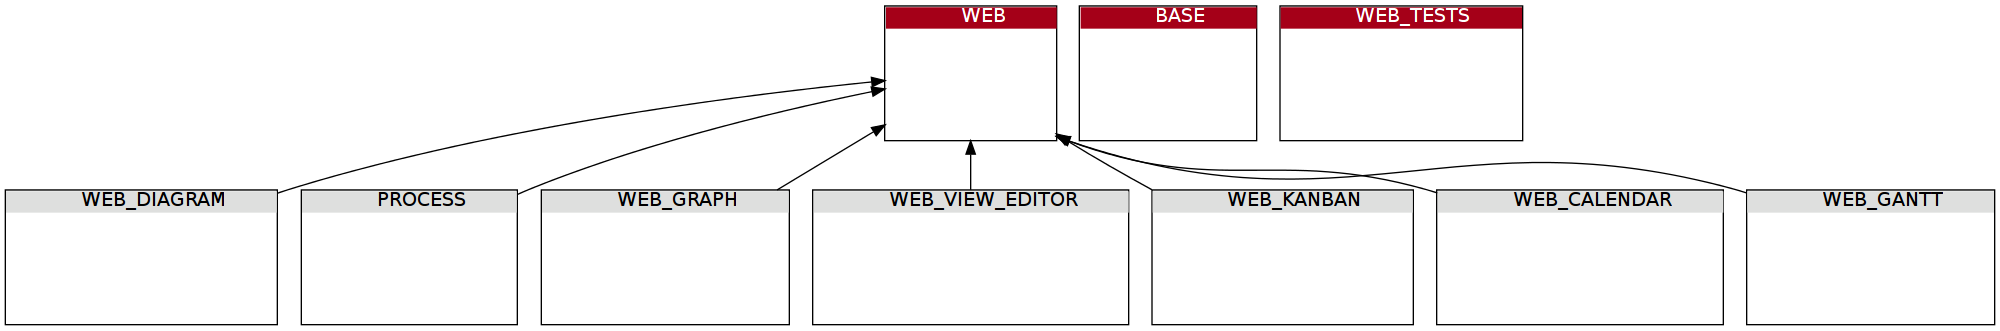
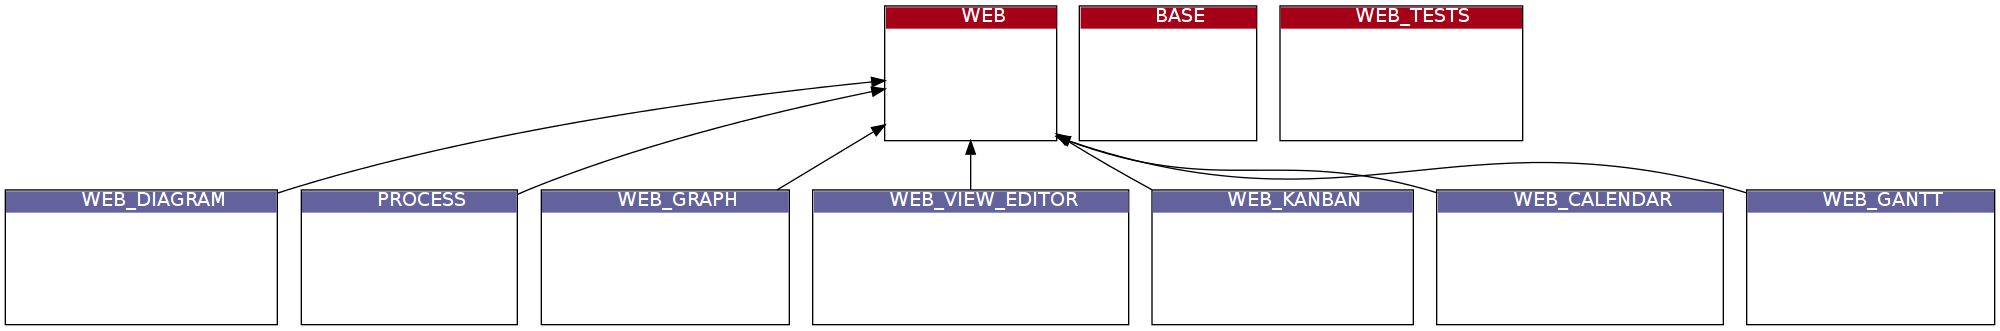
'inspect' service: 'dependencies()' method improved (able to display uninstalled modules) + Documentation updated

Changed region(s): [[0.0, 0.574, 1.0, 0.6647]]

diff --git a/oerplib/service/inspect/dependencies.py b/oerplib/service/inspect/dependencies.py
@@ -28,10 +28,10 @@ from oerplib.tools import v
 
 TPL_MODULE = """<
 <table cellborder="0" cellpadding="0" cellspacing="0"
-       border="1" bgcolor="{bgcolor_module}" height="100%%">
+       border="1" bgcolor="{module_bgcolor}" height="100%%">
     <tr>
-        <td border="0" bgcolor="{bgcolor_module_title}" align="center">
-            <font color="{color_module_title}">{name}</font>
+        <td border="0" bgcolor="{module_bgcolor_title}" align="center">
+            <font color="{module_color_title}">{name}</font>
         </td>
     </tr>
     {models}
@@ -46,7 +46,7 @@ TPL_MODULE_MODEL = """
 
 TPL_MODULE_COMMENT = """
 <tr>
-    <td align="center" border="0"><font color="{color_comment}">{comment}</font></td>
+    <td align="center" border="0"><font color="{module_color_comment}">{comment}</font></td>
 </tr>
 """
 
@@ -68,17 +68,22 @@ class Dependencies(object):
         self._restrict = restrict
         # Configuration options
         self._config = {
-            'bgcolor_module_title': '#DEDFDE',
-            'color_module_title': 'black',
-            'bgcolor_module_title_root': '#A50018',
-            'color_module_title_root': 'white',
-            'bgcolor_module_title_highlight': '#1F931F',
-            'color_module_title_highlight': 'white',
-            'bgcolor_module': 'white',
-            'color_model': 'black',
-            'color_comment': 'grey',
-            'show_normal_models': True,
-            'show_transient_models': False,
+            'module_uninst_bgcolor_title': '#DEDFDE',
+            'module_uninst_color_title': 'black',
+            'module_inst_bgcolor_title': '#64629C',
+            'module_inst_color_title': 'white',
+            'module_root_bgcolor_title': '#A50018',
+            'module_root_color_title': 'white',
+            'module_highlight_bgcolor_title': '#1F931F',
+            'module_highlight_color_title': 'white',
+            'module_bgcolor': 'white',
+            'module_color_comment': 'grey',
+            'model_color_normal': 'black',
+            'model_color_transient': '#7D7D7D',
+            'show_module_inst': True,
+            'show_module_uninst': False,
+            'show_model_normal': True,
+            'show_model_transient': False,
         }
         self._config.update(config or {})
         # List of data models
@@ -126,16 +131,17 @@ class Dependencies(object):
                 args.append(('model', '=ilike', model))
             ids = model_obj.search(args)
             for data in model_obj.read(ids, ['model', 'modules', 'osv_memory']):
-                if not self._config['show_transient_models'] \
+                if not self._config['show_model_transient'] \
                         and data['osv_memory']:
                     continue
-                if not self._config['show_normal_models'] \
+                if not self._config['show_model_normal'] \
                         and not data['osv_memory']:
                     continue
                 res[data['model']] = {
                     'model': data['model'],
                     'modules': data['modules']
                     and data['modules'].split(', ') or [],
+                    'transient': data['osv_memory'],
                 }
         return res
 
@@ -150,13 +156,27 @@ class Dependencies(object):
         modules_full = {}
         # Fetch all the modules installed on the OpenERP server
         module_obj = self._oerp.get('ir.module.module')
-        module_ids = module_obj.search([('state', '=', 'installed')])
-        for data in module_obj.read(module_ids, ['name']):
+        states_inst = ['installed', 'to upgrade', 'to remove']
+        states_uninst = ['uninstalled', 'uninstallable', 'to install']
+        states = []
+        if self._config['show_module_inst'] \
+                and not self._config['show_module_uninst']:
+                    states = states_inst[:]
+        elif not self._config['show_module_inst'] \
+                and self._config['show_module_uninst']:
+                    states = states_uninst[:]
+        elif self._config['show_module_inst'] \
+                and self._config['show_module_uninst']:
+            states = []
+        args = states and [('state', 'in', states)] or []
+        module_ids = module_obj.search(args)
+        for data in module_obj.read(module_ids, ['name', 'state']):
             if data['name'] not in modules:
                 modules_full[data['name']] = {
                     'models': [],
                     'depends': [],
                     'keep': keep,
+                    'installed': data['state'] in states_inst
                 }
         # Dispatch data models in their related modules
         for model, data in models.iteritems():
@@ -173,6 +193,7 @@ class Dependencies(object):
                             'models': [],
                             'depends': [],
                             'keep': keep,
+                            'installed': modules_full[module]['installed'],
                         }
                     if model not in modules[module]['models']:
                         modules[module]['models'].append(model)
@@ -301,31 +322,39 @@ class Dependencies(object):
                        for depend in data['depends'])
             # Model lines
             tpl_models = []
-            for model in data['models']:
-                tpl_models.append(TPL_MODULE_MODEL.format(
-                    color_model=self._config['color_model'], model=model))
+            for model in sorted(data['models']):
+                color_model = self._config['model_color_normal']
+                if self._models[model]['transient']:
+                    color_model = self._config['model_color_transient']
+                tpl_models.append(
+                    TPL_MODULE_MODEL.format(
+                        color_model=color_model, model=model))
             # Module comment
             tpl_comment = None
             if data.get('comment'):
                 tpl_comment = "<tr><td> </td></tr>"
                 tpl_comment += TPL_MODULE_COMMENT.format(
-                    color_comment=self._config['color_comment'],
+                    module_color_comment=self._config['module_color_comment'],
                     comment=data['comment'])
             # Module
-            color_module_title = self._config['color_module_title']
-            bgcolor_module_title = self._config['bgcolor_module_title']
+            module_color_title = self._config['module_inst_color_title']
+            module_bgcolor_title = self._config['module_inst_bgcolor_title']
             if root:
-                color_module_title = self._config['color_module_title_root']
-                bgcolor_module_title = self._config['bgcolor_module_title_root']
+                module_color_title = self._config['module_root_color_title']
+                module_bgcolor_title = self._config['module_root_bgcolor_title']
             if not root and tpl_models:
-                color_module_title = \
-                    self._config['color_module_title_highlight']
-                bgcolor_module_title = \
-                    self._config['bgcolor_module_title_highlight']
+                module_color_title = \
+                    self._config['module_highlight_color_title']
+                module_bgcolor_title = \
+                    self._config['module_highlight_bgcolor_title']
+            if not data.get('installed'):
+                module_color_title = self._config['module_uninst_color_title']
+                module_bgcolor_title = \
+                    self._config['module_uninst_bgcolor_title']
             tpl = TPL_MODULE.format(
-                color_module_title=color_module_title,
-                bgcolor_module_title=bgcolor_module_title,
-                bgcolor_module=self._config['bgcolor_module'],
+                module_color_title=module_color_title,
+                module_bgcolor_title=module_bgcolor_title,
+                module_bgcolor=self._config['module_bgcolor'],
                 name=module.upper(),
                 models=''.join(tpl_models),
                 comment=tpl_comment or '')

diff --git a/oerplib/service/inspect/__init__.py b/oerplib/service/inspect/__init__.py
@@ -141,23 +141,28 @@ class Inspect(object):
         `config` is a dictionary of options to override some attributes of
         the graph. Here the list of options and their default values:
 
-            - ``bgcolor_module_title: #DEDFDE``,
-            - ``color_module_title: black``,
-            - ``bgcolor_module_title_root: #A50018``,
-            - ``color_module_title_root: white``,
-            - ``bgcolor_module_title_highlight: #1F931F``,
-            - ``color_module_title_highlight: white``,
-            - ``bgcolor_module: white``,
-            - ``color_model: black``,
-            - ``color_comment: grey``,
-            - ``show_normal_models: True``,
-            - ``show_transient_models: False``,
+            - ``module_uninst_bgcolor_title: #DEDFDE``,
+            - ``module_uninst_color_title: black``,
+            - ``module_inst_bgcolor_title: #64629C``,
+            - ``module_inst_color_title: white``,
+            - ``module_root_bgcolor_title: #A50018``,
+            - ``module_root_color_title: white``,
+            - ``module_highlight_bgcolor_title: #1F931F``,
+            - ``module_highlight_color_title: white``,
+            - ``module_bgcolor: white``,
+            - ``module_color_comment: grey``,
+            - ``model_color_normal: black``,
+            - ``model_color_transient: #7D7D7D``,
+            - ``show_module_inst: True``,
+            - ``show_module_uninst: False``,
+            - ``show_model_normal: True``,
+            - ``show_model_transient: False``,
 
         >>> oerp.inspect.dependencies(
         ...     ['base'],
         ...     ['res.partner*'],
         ...     ['res.partner.title', 'res.partner.bank'],
-        ...     config={'show_transient_models': True},  # Show TransientModel/osv_memory models
+        ...     config={'show_model_transient': True},  # Show TransientModel/osv_memory models
         ... ).write('dependencies_res_partner_transient.png', format='png')
 
         .. note::

diff --git a/doc/source/tutorials.rst b/doc/source/tutorials.rst
@@ -525,26 +525,41 @@ display dependencies related to the `account` module::
     :height: 250px
 
 This time the `root` module is ``account``. Modules may also contain data
-models. To highlight some of them among the modules, set the `models` and/or
+models. To highlight some of them among the modules, set the `models` and
 `models_blacklist` parameters with one or several patterns (a joker ``*`` can
 be used)::
 
-    >>> graph = oerp.inspect.dependencies(['account'], models=['res.*'])
+    >>> graph = oerp.inspect.dependencies(['account'], models=['account.invoice.*'])
     >>> graph.write('dependencies_v3.png', format='png')
 
 .. figure:: _static/dependencies_v3.png
     :height: 250px
 
-Modules related to the matching models are shown in green.
+Modules related to the matching models are shown in green (in addition to the
+red one).  It is possible to display transient models too through the
+``show_transient_model`` configuration option (displayed in gray in the
+following graph)::
+
+    >>> config = {'show_transient_model': True}
+    >>> graph = oerp.inspect.dependencies(['account'], models=['account.invoice.*'], config=config)
+    >>> graph.write('dependencies_v4.png', format='png')
+
+.. figure:: _static/dependencies_v4.png
+    :height: 250px
+
 To hide "noisy" modules and restrict the resulting graph only to
 data models that interest you, add the ``restrict=True`` parameter::
 
-    >>> graph = oerp.inspect.dependencies(['account'], ['res.*'], restrict=True)
-    >>> graph.write('dependencies_v4.png', format='png')
+    >>> config = {'show_transient_model': True}
+    >>> graph = oerp.inspect.dependencies(['account'], ['account.invoice.*'], restrict=True, config=config)
+    >>> graph.write('dependencies_v5.png', format='png')
 
-.. image:: _static/dependencies_v4.png
-    :height: 250px
+.. image:: _static/dependencies_v5.png
+    :height: 190px
 
+For more details, take a look at the
+:func:`dependencies <oerplib.service.inspect.Inspect.dependencies>` method
+documentation.
 
 Scan the views of data models to list `on_change` methods
 '''''''''''''''''''''''''''''''''''''''''''''''''''''''''
@@ -562,7 +577,6 @@ The dictionary returned is formatted as
 follows: ``{model: {on_change: {view_name: field: [args]}}}``, e.g. the
 ``onchange_state`` method is set on the ``state_id`` field of the view
 ``base.view_users_simple_form``, and take the same field as parameter.
-
 
 Save the session to open it quickly later **(New in version 0.8)**
 ------------------------------------------------------------------
